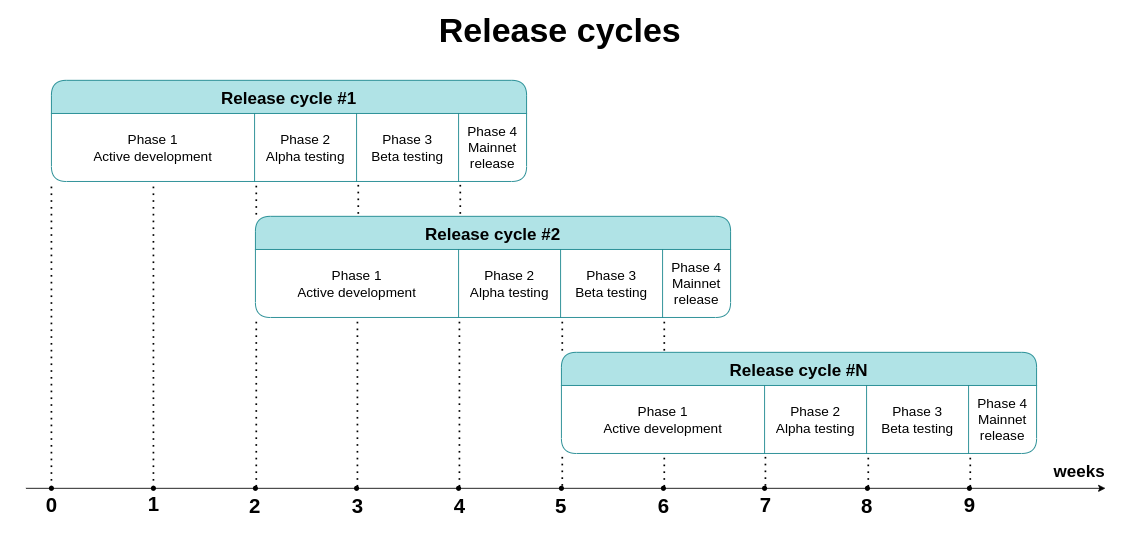
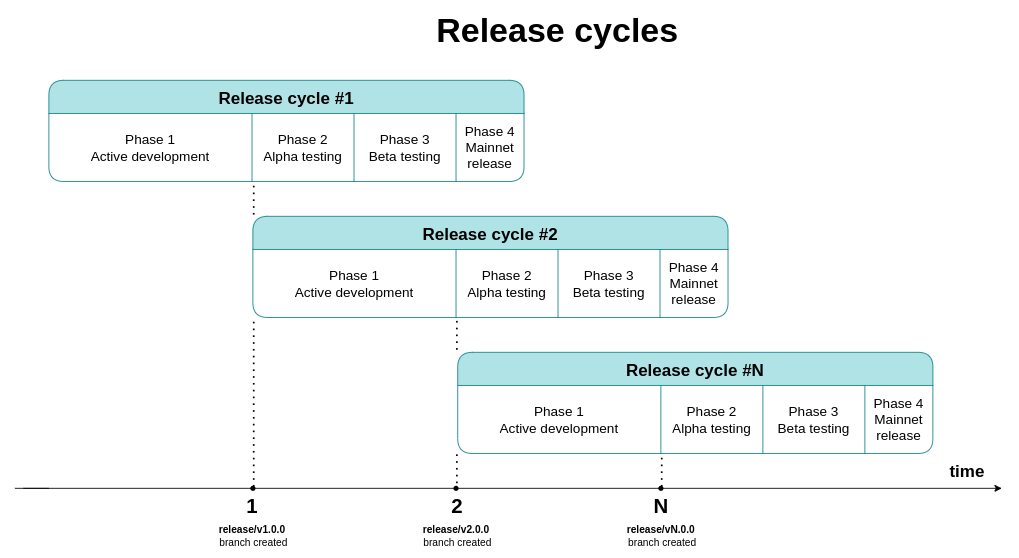
chore: update release cycle doc

Changed region(s): [[0.0304, 0.1201, 0.7301, 0.6004], [0.0304, 0.6304, 1.0, 0.9906], [0.3651, 0.03, 0.6693, 0.0901]]

diff --git a/doc/release_cycle.md b/doc/release_cycle.md
@@ -1,6 +1,7 @@
 # Standard release cycle
-We decided to go with 4 week release cycle. Release cycles should correlate with 2 week sprints.
-At the beginning of each release cycle, devs will be assigned tasks that we want to implement in the upcoming release.
+For now we decided to go with 6 week release cycle. At the beginning of each release cycle, devs will be assigned tasks that we want to implement in the upcoming release.
+
+***Note:*** 6 week cycle is just default time frame we choose but we might not strictly follow it.
 
 Versioning is based on [Semantic Versioning 2.0.0](https://semver.org/). \
 
@@ -23,12 +24,12 @@ In case other teams need something more stable, they can use prnet.
 - Merge it back to develop
 - Deploy new devnet
 
-`Duration:` 2 weeks \
+`Duration:` 4 weeks \
 `Active Branch:` develop \
-`Environment:` devnet \
+`Environment:` devnet
 
 ### Phase 2 - alpha testing (internal)
-It is used for internal testing. Stress tests are performed on regular basis and the goal is to make the new set of features stable - it is #1 priority to make sure network
+It is used for internal testing. Stress tests are performed on regular basis and the goal is to make the new set of features stable - it is #1 priority to make sure devnet
 does not crash and works without any problems. In case everything is fine, devs can continue with development of new features for the next release and merge
 them into the develop branch.
 
@@ -36,21 +37,19 @@ At the beginning of alpha testing, `release/vX.Y.Z` branch is created based on `
 from now on only bug fixes are merged into `release/vX.Y.Z`. \
 Note: this does not affect develop branch, new features can be still merged into the develop branch for the next release.
 
-***Note:*** alpha testing for new release starts only after previous release cycle was successfully finished.
+***!!! Note 1:*** devnet is freezed and deployed strictly only from `release/vX.Y.Z` branch during alpha testing. \
+***Note 2:*** alpha testing for new release starts only after previous release cycle was successfully finished.
 
 `HowTo:`
 - At the beginning of alpha testing `release/vX.Y.Z` branch is created based on `develop` - this is new release candidate
 - Create first commit with adjusted version in `release/vX.Y.Z` branch
-- Deploy `release/vX.Y.Z` on devnet (or rc-net -> see discussion below)
+- Deploy `release/vX.Y.Z` on devnet
 - From now on only bug fixes are merged into `release/vX.Y.Z`. With each fix, devnet is redeployed.
+- ***Optional:*** At the end of alpha testing, merge `release/vX.Y.Z` back into `develop` in case there are some important bug fixes
 
 `Duration:` 1 week \
 `Active Branch:` release/vX.Y.Z \
-`Environment:` devnet (or rc-net)
-
-***TODO: Important discussion for everyone:***
-- ***we can either deploy `release/vX.Y.Z` branch to devnet and freeze it. New features can still be merged into develop branch, but devnet will be freezed for 1 week***
-- ***or we can deploy `release/vX.Y.Z` branch to "rc-net" so devnet is free***
+`Environment:` devnet
 
 ### Phase 3 - beta testing (public)
 After the release candidate successfully passed alpha testing, it is deployed on testnet for beta testing.
@@ -61,6 +60,7 @@ The goal is to make new release candidate even more stable and production (mainn
 - Create commit in case some testnet specific data must be adjusted, e.g. specifying hardfork block, etc...
 - Deploy `release/vX.Y.Z` on testnet
 - Only bug fixes are merged into `release/vX.Y.Z`. With each fix, testnet is redeployed.
+- ***Optional:*** At the end of beta testing, merge `release/vX.Y.Z` back into `develop` in case there are some important bug fixes
 
 `Duration:` 1 week \
 `Active Branch:` release/vX.Y.Z \
@@ -80,7 +80,6 @@ After beta testing is successfully finished, we can create final mainnet release
 `Duration:` 1 day - Monday, beginning of the next release cycle (fifth week of the first cycle) \
 `Active Branch:` release/vX.Y.Z -> merged into master & develop \
 `Environment:` mainnet
-
 
 # Ad-hoc releases with bug fixes
 There can be also ad-hoc releases with bug fixes for already released versions.
